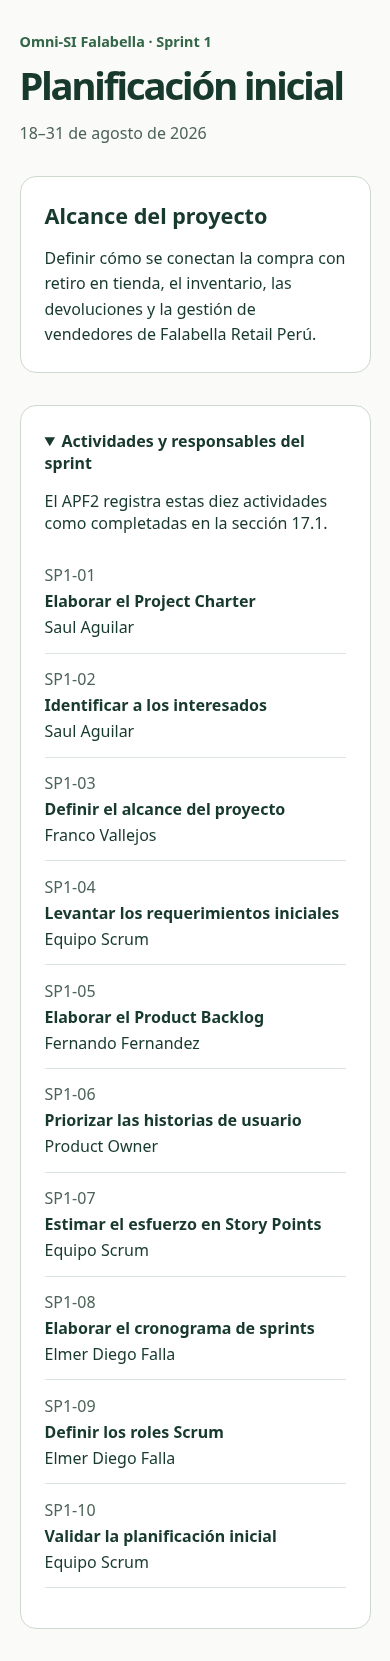
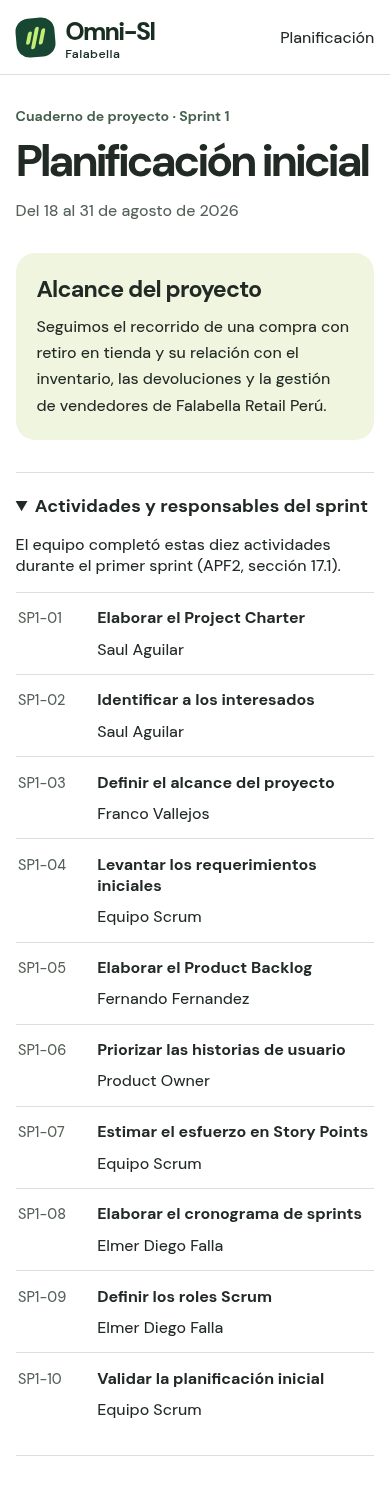
Da identidad propia al cuaderno de planificación

diff --git a/src/base.css b/src/base.css
@@ -1,18 +1,30 @@
-:root { font-family: Inter, system-ui, sans-serif; color: #17392e; background: #fafbf8; }
-* { box-sizing: border-box; }
-body { margin: 0; }
-.pagina { width: min(66rem, 90%); margin: clamp(2rem, 6vw, 5rem) auto; }
-.pagina h1 { margin: .4rem 0 1rem; font-size: clamp(2.4rem, 6vw, 4.5rem); line-height: 1.05; letter-spacing: -.055em; }
-.rotulo { font-size: .9rem; font-weight: 650; color: #346648; }
-.pagina .periodo { color: #4d6359; }
-.pagina section, .pagina details { margin-top: 2rem; padding: 1.5rem; background: #fff; border: 1px solid #ccd9cf; border-radius: 1rem; }
-.pagina h2 { margin: 0; font-size: 1.35rem; }
-.pagina section p { max-width: 68ch; line-height: 1.6; margin-bottom: 0; }
-.pagina summary { font-weight: 650; cursor: pointer; }
-.pagina summary:focus-visible { outline: 3px solid #44724d; outline-offset: 4px; }
-.backlog { padding: 0; list-style: none; }
-.backlog li { padding: .9rem 0; border-bottom: 1px solid #dbe4df; display: grid; gap: .5rem; grid-template-columns: 5rem 2fr 1fr; }
-.codigo { color: #4d6359; }
-@media (max-width: 42rem) {
-  .backlog li { grid-template-columns: 1fr; gap: .25rem; }
-}
+@font-face { font-family:'DM Sans'; src:url('./assets/dm-sans.woff2') format('woff2'); font-weight:400 800; font-display:swap; }
+:root { font-family:'DM Sans',system-ui,sans-serif; font-weight:450; color:#222a25; background:#fff; --bosque:#174632; --acento:#c3ed75; --tinta:#222a25; --suave:#556159; --linea:#dbe0da; }
+* { box-sizing:border-box; }
+body { margin:0; }
+button,input,select,summary { font:inherit; }
+button,summary { cursor:pointer; }
+a { color:var(--bosque); text-underline-offset:.22em; }
+:focus-visible { outline:3px solid #386cbc; outline-offset:3px; }
+.mastil { background:#fff; border-bottom:1px solid var(--linea); }
+.envoltura,.pagina { width:min(74rem,92%); margin-inline:auto; }
+.mastil .envoltura { display:flex; align-items:center; justify-content:space-between; min-height:4.65rem; gap:1rem; }
+.marca { display:inline-flex; align-items:center; gap:.65rem; color:#192e23; text-decoration:none; font-size:1.55rem; font-weight:800; letter-spacing:-.07em; white-space:nowrap; }
+.marca small { display:block; font-size:.77rem; letter-spacing:.035em; line-height:1; font-weight:550; }
+.simbolo { display:flex; align-items:center; justify-content:center; gap:2px; width:2.45rem; height:2.45rem; border-radius:.82rem; background:var(--bosque); transform:rotate(-5deg); }
+.simbolo i { width:.27rem; height:.8rem; border-radius:1rem; background:var(--acento); transform:skew(-16deg); }
+.simbolo i:nth-child(2) { height:1.35rem; }
+.simbolo i:last-child { height:1.03rem; }
+.pagina { max-width:60rem; margin-block:clamp(2rem,6vw,4.5rem); }
+.rotulo { font-size:.88rem; font-weight:660; color:#46604d; }
+.pagina h1 { font-size:clamp(2.8rem,6vw,5rem); line-height:1; letter-spacing:-.075em; margin:.6rem 0; }
+.pagina .periodo { color:var(--suave); }
+.pagina section { background:#eff5df; padding:clamp(1.3rem,3vw,2.3rem); border-radius:1.2rem; margin-block:2rem; }
+.pagina h2 { font-size:1.45rem; letter-spacing:-.035em; margin:0 0 .6rem; }
+.pagina section p { margin:0; line-height:1.65; max-width:65ch; }
+.pagina details { border-block:1px solid var(--linea); padding-block:1.3rem; }
+.pagina summary { font-weight:700; font-size:1.13rem; }
+.backlog { list-style:none; padding:0; margin:0; }
+.backlog li { display:grid; grid-template-columns:5.3rem 2fr 1fr; gap:.65rem; align-items:baseline; padding:.9rem .15rem; border-top:1px solid var(--linea); }
+.codigo { color:var(--suave); font-variant-numeric:tabular-nums; font-size:.9rem; }
+@media(max-width:42rem) { .backlog li { grid-template-columns:4.3rem 1fr; }.backlog li span:last-child {grid-column:2;} }

diff --git a/src/Planificacion.jsx b/src/Planificacion.jsx
@@ -14,17 +14,17 @@ const actividades = [
 export default function Planificacion() {
   return (
     <main className="pagina">
-      <p className="rotulo">Omni-SI Falabella · Sprint 1</p>
+      <p className="rotulo">Cuaderno de proyecto · Sprint 1</p>
       <h1>Planificación inicial</h1>
-      <p className="periodo">18–31 de agosto de 2026</p>
+      <p className="periodo">Del 18 al 31 de agosto de 2026</p>
       <section aria-labelledby="alcance">
         <h2 id="alcance">Alcance del proyecto</h2>
-        <p>Definir cómo se conectan la compra con retiro en tienda, el inventario,
+        <p>Seguimos el recorrido de una compra con retiro en tienda y su relación con el inventario,
           las devoluciones y la gestión de vendedores de Falabella Retail Perú.</p>
       </section>
       <details>
         <summary>Actividades y responsables del sprint</summary>
-        <p>El APF2 registra estas diez actividades como completadas en la sección 17.1.</p>
+        <p>El equipo completó estas diez actividades durante el primer sprint (APF2, sección 17.1).</p>
         <ul className="backlog">
           {actividades.map(([id, nombre, responsable]) => (
             <li key={id}>

diff --git a/src/App.jsx b/src/App.jsx
@@ -1,5 +1,9 @@
+import Marca from './Marca.jsx';
 import Planificacion from './Planificacion.jsx';
 
 export default function App() {
-  return <Planificacion />;
+  return <>
+    <header className="mastil"><div className="envoltura"><Marca href="?"/><span>Planificación</span></div></header>
+    <Planificacion />
+  </>;
 }

diff --git a/src/Marca.jsx b/src/Marca.jsx
@@ -1,0 +1,6 @@
+export default function Marca({ href }) {
+  return <a className="marca" href={href} aria-label="Omni-SI Falabella, inicio">
+    <span className="simbolo" aria-hidden="true"><i/><i/><i/></span>
+    <span>Omni-SI <small>Falabella</small></span>
+  </a>;
+}
